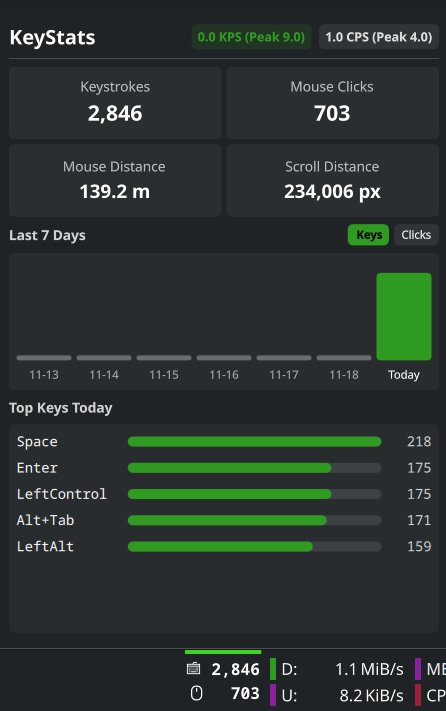
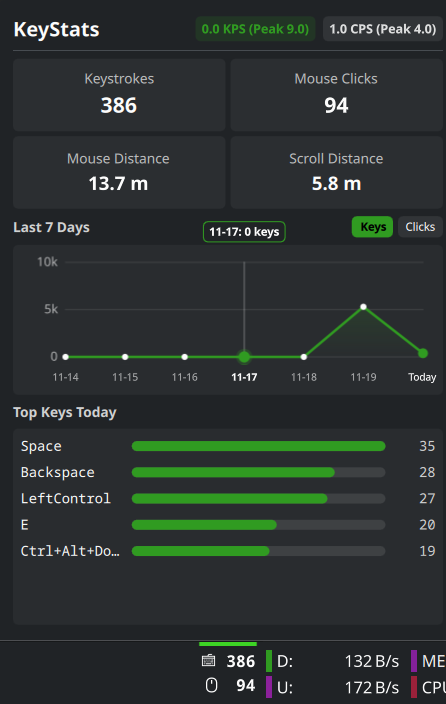
feat(plasma): changed to line chart with auto-scaling Y-axis values, hover tooltips, and physical DPI scaling

diff --git a/plasma-widget/io.github.0x5c0f.keystats/contents/ui/main.qml b/plasma-widget/io.github.0x5c0f.keystats/contents/ui/main.qml
@@ -1,5 +1,6 @@
 import QtQuick
 import QtQuick.Layouts
+import QtQuick.Window
 import org.kde.plasma.plasmoid
 import org.kde.plasma.core as PlasmaCore
 import org.kde.plasma.components as PlasmaComponents
@@ -70,10 +71,19 @@ PlasmoidItem {
 
     function formatDistance(px) {
         if (isNaN(px)) return "0 px"
-            if (px >= 3780000) return (px / 3780000).toFixed(2) + " km"
-                if (px >= 3780) return (px / 3780).toFixed(1) + " m"
+            var pxPerMeter = (Screen.pixelDensity > 0) ? (Screen.pixelDensity * 1000.0) : 3780.0
+            var meters = px / pxPerMeter
+            if (meters >= 1000.0) return (meters / 1000.0).toFixed(2) + " km"
+                if (meters >= 1.0) return meters.toFixed(1) + " m"
                     return formatNumber(px) + " px"
     }
+
+    // function formatDistance(px) {
+    //     if (isNaN(px)) return "0 px"
+    //         if (px >= 3780000) return (px / 3780000).toFixed(2) + " km"
+    //             if (px >= 3780) return (px / 3780).toFixed(1) + " m"
+    //                 return formatNumber(px) + " px"
+    // }
 
     function parseStats(output) {
         var keysMatch = output.match(/Key presses:\s*(\d+)/i)
@@ -86,7 +96,7 @@ PlasmoidItem {
         if (keysMatch) root.keyCount = parseInt(keysMatch[1], 10)
             if (clicksMatch) root.clickCount = parseInt(clicksMatch[1], 10)
                 if (distMatch) root.mouseDistance = formatDistance(parseInt(distMatch[1], 10))
-                    if (scrollMatch) root.scrollDistance = formatNumber(parseInt(scrollMatch[1], 10)) + " px"
+                    if (scrollMatch) root.scrollDistance = formatDistance(parseInt(scrollMatch[1], 10))
                         if (kpsMatch) {
                             root.currentKps = parseFloat(kpsMatch[1])
                             root.peakKps = parseFloat(kpsMatch[2])
@@ -101,16 +111,26 @@ PlasmoidItem {
                         root.historyData = updated
     }
 
+    function parseCompactCount(str) {
+        var m = str.match(/^([\d.]+)\s*([KkMm])?$/)
+        if (!m) return 0
+        var num = parseFloat(m[1])
+        var suffix = (m[2] || "").toUpperCase()
+        if (suffix === "K") return Math.round(num * 1000)
+        if (suffix === "M") return Math.round(num * 1000000)
+        return Math.round(num)
+    }
+
     function parseHistory(output) {
         var lines = output.split("\n")
-        var counts = []
-        var labels = []
+        var counts = Array()
+        var labels = Array()
 
         for (var i = 0; i < lines.length; i++) {
-            var m = lines[i].match(/^(\d{2}-\d{2})\s+.*?(\d+)\s*$/)
+            var m = lines[i].match(/^(\d{2}-\d{2})\s+.*?([\d.]+[KkMm]?)\s*$/)
             if (m) {
                 labels.push(m[1])
-                counts.push(parseInt(m[2], 10))
+                counts.push(parseCompactCount(m[2]))
             }
             if (counts.length === 7) break
         }
@@ -428,43 +448,228 @@ PlasmoidItem {
                     }
                 }
             }
-            // 7-Day History Bar Chart
+
+            // 7-Day History Line Chart with Auto-Scaling Y-Axis & Hover Tooltip
             Rectangle {
+                id: historyBox
                 Layout.fillWidth: true
-                Layout.preferredHeight: 110
+                Layout.preferredHeight: 120
                 radius: Kirigami.Units.smallSpacing
                 color: Qt.rgba(Kirigami.Theme.textColor.r, Kirigami.Theme.textColor.g, Kirigami.Theme.textColor.b, 0.04)
-                RowLayout {
+
+                property int padLeft: 36
+                property int padRight: 10
+                property int hoveredIndex: -1
+
+                function niceMax(rawMax) {
+                    if (rawMax <= 10) return 10
+                    var magnitude = Math.pow(10, Math.floor(Math.log(rawMax) / Math.LN10))
+                    var residual = rawMax / magnitude
+                    var nice
+                    if (residual <= 1.0) nice = 1.0
+                    else if (residual <= 2.0) nice = 2.0
+                    else if (residual <= 2.5) nice = 2.5
+                    else if (residual <= 5.0) nice = 5.0
+                    else nice = 10.0
+                    return Math.ceil(nice * magnitude)
+                }
+
+                function formatAxisVal(v) {
+                    if (v >= 1000000) {
+                        var m = v / 1000000
+                        return (m % 1 === 0 ? m.toFixed(0) : m.toFixed(1)) + "M"
+                    }
+                    if (v >= 1000) {
+                        var k = v / 1000
+                        return (k % 1 === 0 ? k.toFixed(0) : k.toFixed(1)) + "k"
+                    }
+                    return Math.round(v).toString()
+                }
+
+                ColumnLayout {
+                    id: chartCol
                     anchors.fill: parent
                     anchors.margins: Kirigami.Units.mediumSpacing
-                    spacing: Kirigami.Units.smallSpacing
-                    Repeater {
-                        model: 7
-                        delegate: ColumnLayout {
-                            Layout.fillWidth: true
-                            Layout.fillHeight: true
-                            Layout.preferredWidth: 32
-                            property real maxVal: Math.max.apply(null, root.historyData) || 1
-                            property real ratio: Math.min(1.0, (root.historyData[index] || 0) / maxVal)
-                            Item { Layout.fillHeight: true }
-                            Rectangle {
-                                Layout.fillWidth: true
-                                Layout.preferredHeight: Math.max(4, Math.round(70 * ratio))
-                                radius: 3
-                                color: index === 6 ? Kirigami.Theme.highlightColor : Qt.rgba(Kirigami.Theme.textColor.r, Kirigami.Theme.textColor.g, Kirigami.Theme.textColor.b, 0.3)
+                    spacing: 4
+
+                    Canvas {
+                        id: historyCanvas
+                        Layout.fillWidth: true
+                        Layout.fillHeight: true
+
+                        property var pointsData: root.historyData
+                        property int activeIdx: historyBox.hoveredIndex
+                        onPointsDataChanged: requestPaint()
+                        onActiveIdxChanged: requestPaint()
+                        onWidthChanged: requestPaint()
+                        onHeightChanged: requestPaint()
+
+                        onPaint: {
+                            var ctx = getContext("2d")
+                            ctx.clearRect(0, 0, width, height)
+
+                            var data = root.historyData
+                            if (!data || data.length < 7) return
+
+                            var rawMax = Math.max.apply(null, data) || 0
+                            var maxVal = historyBox.niceMax(rawMax)
+
+                            var padLeft = historyBox.padLeft
+                            var padRight = historyBox.padRight
+                            var padTop = 8
+                            var padBottom = 6
+                            var plotW = width - padLeft - padRight
+                            var plotH = height - padTop - padBottom
+                            var stepX = plotW / 6
+
+                            ctx.font = "10px sans-serif"
+                            ctx.textAlign = "right"
+                            ctx.textBaseline = "middle"
+
+                            for (var g = 0; g <= 2; g++) {
+                                var gy = padTop + (plotH * g / 2)
+                                var tickVal = maxVal * (1.0 - g / 2)
+
+                                ctx.strokeStyle = Qt.rgba(Kirigami.Theme.textColor.r, Kirigami.Theme.textColor.g, Kirigami.Theme.textColor.b, 0.09)
+                                ctx.lineWidth = 1
+                                ctx.beginPath()
+                                ctx.moveTo(padLeft, gy)
+                                ctx.lineTo(width - padRight, gy)
+                                ctx.stroke()
+
+                                ctx.fillStyle = Qt.rgba(Kirigami.Theme.textColor.r, Kirigami.Theme.textColor.g, Kirigami.Theme.textColor.b, 0.65)
+                                ctx.fillText(historyBox.formatAxisVal(tickVal), padLeft - 6, gy)
                             }
-                            PlasmaComponents.Label {
+
+                            var pts = Array()
+                            for (var i = 0; i < 7; i++) {
+                                var val = data[i] || 0
+                                var ratio = Math.min(1.0, val / maxVal)
+                                pts.push({
+                                    x: padLeft + stepX * i,
+                                    y: padTop + plotH * (1.0 - ratio)
+                                })
+                            }
+
+                            var grad = ctx.createLinearGradient(0, padTop, 0, padTop + plotH)
+                            grad.addColorStop(0, Qt.rgba(Kirigami.Theme.highlightColor.r, Kirigami.Theme.highlightColor.g, Kirigami.Theme.highlightColor.b, 0.28))
+                            grad.addColorStop(1, Qt.rgba(Kirigami.Theme.highlightColor.r, Kirigami.Theme.highlightColor.g, Kirigami.Theme.highlightColor.b, 0.0))
+
+                            ctx.beginPath()
+                            ctx.moveTo(pts[0].x, padTop + plotH)
+                            for (var j = 0; j < pts.length; j++) {
+                                ctx.lineTo(pts[j].x, pts[j].y)
+                            }
+                            ctx.lineTo(pts[6].x, padTop + plotH)
+                            ctx.closePath()
+                            ctx.fillStyle = grad
+                            ctx.fill()
+
+                            ctx.beginPath()
+                            ctx.moveTo(pts[0].x, pts[0].y)
+                            for (var k = 1; k < pts.length; k++) {
+                                ctx.lineTo(pts[k].x, pts[k].y)
+                            }
+                            ctx.strokeStyle = Kirigami.Theme.highlightColor
+                            ctx.lineWidth = 2
+                            ctx.lineJoin = "round"
+                            ctx.lineCap = "round"
+                            ctx.stroke()
+
+                            if (historyBox.hoveredIndex >= 0 && historyBox.hoveredIndex < pts.length) {
+                                var hx = pts[historyBox.hoveredIndex].x
+                                ctx.strokeStyle = Qt.rgba(Kirigami.Theme.textColor.r, Kirigami.Theme.textColor.g, Kirigami.Theme.textColor.b, 0.28)
+                                ctx.lineWidth = 1
+                                ctx.beginPath()
+                                ctx.moveTo(hx, padTop)
+                                ctx.lineTo(hx, padTop + plotH)
+                                ctx.stroke()
+                            }
+
+                            for (var d = 0; d < pts.length; d++) {
+                                var isToday = (d === 6)
+                                var isHovered = (d === historyBox.hoveredIndex)
+                                if (isHovered) {
+                                    ctx.beginPath()
+                                    ctx.arc(pts[d].x, pts[d].y, 6.5, 0, Math.PI * 2)
+                                    ctx.fillStyle = Qt.rgba(Kirigami.Theme.highlightColor.r, Kirigami.Theme.highlightColor.g, Kirigami.Theme.highlightColor.b, 0.25)
+                                    ctx.fill()
+                                }
+                                ctx.beginPath()
+                                ctx.arc(pts[d].x, pts[d].y, isHovered ? 4.5 : (isToday ? 4 : 2.5), 0, Math.PI * 2)
+                                ctx.fillStyle = (isToday || isHovered)
+                                    ? Kirigami.Theme.highlightColor
+                                    : Kirigami.Theme.textColor
+                                ctx.fill()
+                            }
+                        }
+                    }
+
+                    Item {
+                        Layout.fillWidth: true
+                        implicitHeight: 14
+
+                        Repeater {
+                            model: 7
+                            delegate: PlasmaComponents.Label {
+                                property real plotW: parent.width - historyBox.padLeft - historyBox.padRight
+                                property real centerX: historyBox.padLeft + (plotW / 6) * index
+
+                                x: centerX - width / 2
                                 text: root.dayLabels[index] || ""
-                                font.pointSize: Kirigami.Theme.smallFont.pointSize * 0.8
-                                opacity: index === 6 ? 1.0 : 0.6
-                                Layout.preferredWidth: 32
-                                horizontalAlignment: Text.AlignHCenter
-                                Layout.alignment: Qt.AlignHCenter
+                                font.pointSize: Kirigami.Theme.smallFont.pointSize * 0.78
+                                font.bold: index === historyBox.hoveredIndex
+                                opacity: (index === 6 || index === historyBox.hoveredIndex) ? 1.0 : 0.6
                             }
                         }
                     }
                 }
-            }
+
+                MouseArea {
+                    anchors.fill: parent
+                    hoverEnabled: true
+                    onPositionChanged: function(mouse) {
+                        var margin = Kirigami.Units.mediumSpacing
+                        var localX = mouse.x - margin - historyBox.padLeft
+                        var plotW = historyBox.width - margin * 2 - historyBox.padLeft - historyBox.padRight
+                        if (plotW <= 0) return
+                        var idx = Math.round(localX / (plotW / 6))
+                        historyBox.hoveredIndex = Math.max(0, Math.min(6, idx))
+                    }
+                    onExited: historyBox.hoveredIndex = -1
+                }
+
+                Rectangle {
+                    id: hoverTooltip
+visible: historyBox.hoveredIndex >= 0 && historyBox.hoveredIndex < root.historyData.length
+z: 20
+radius: 4
+color: Kirigami.Theme.backgroundColor
+border.color: Kirigami.Theme.highlightColor
+border.width: 1
+implicitWidth: tooltipLbl.implicitWidth + 10
+implicitHeight: tooltipLbl.implicitHeight + 4
+property real margin: Kirigami.Units.mediumSpacing
+property real plotW: historyBox.width - margin * 2 - historyBox.padLeft - historyBox.padRight
+property real targetX: margin + historyBox.padLeft + (plotW / 6) * Math.max(0, historyBox.hoveredIndex)
+x: Math.max(4, Math.min(historyBox.width - width - 4, targetX - width / 2))
+y: -height - 2
+PlasmaComponents.Label {
+id: tooltipLbl
+anchors.centerIn: parent
+font.pointSize: Kirigami.Theme.smallFont.pointSize * 0.85
+font.bold: true
+text: {
+var idx = historyBox.hoveredIndex
+if (idx < 0 || idx >= root.historyData.length) return ""
+var day = root.dayLabels[idx] || ""
+var val = formatNumber(root.historyData[idx] || 0)
+var unit = root.historyMode === "keys" ? "keys" : "clicks"
+return day + ": " + val + " " + unit
+}
+}
+}
+}
             // Top Keys Breakdown Section
             PlasmaComponents.Label {
                 text: "Top Keys Today"
